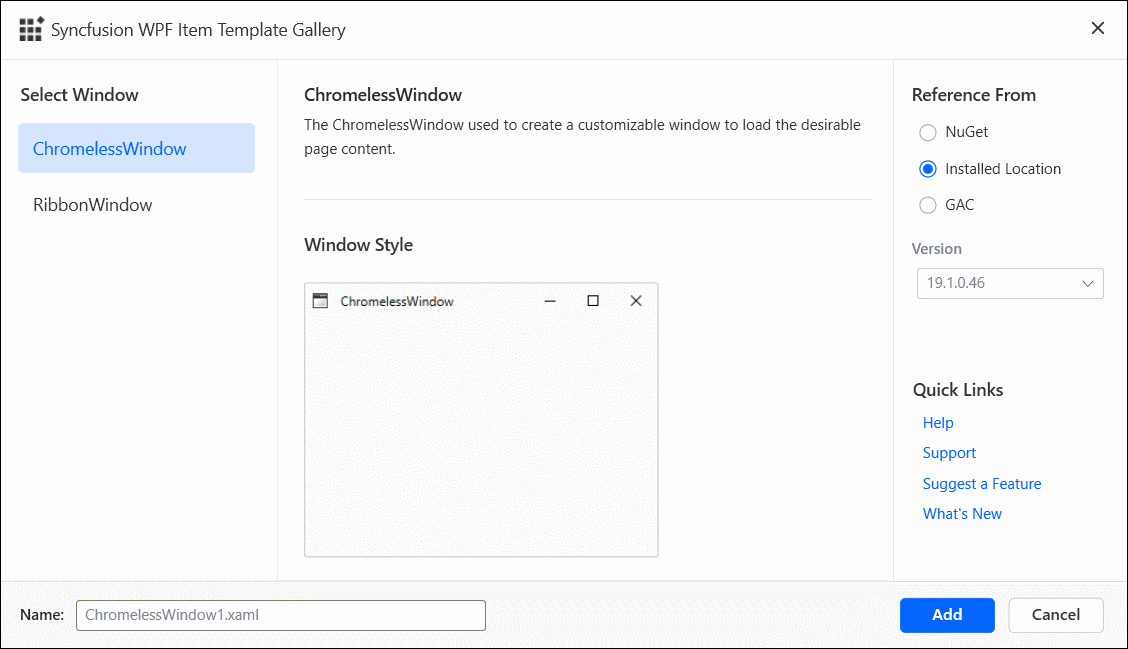
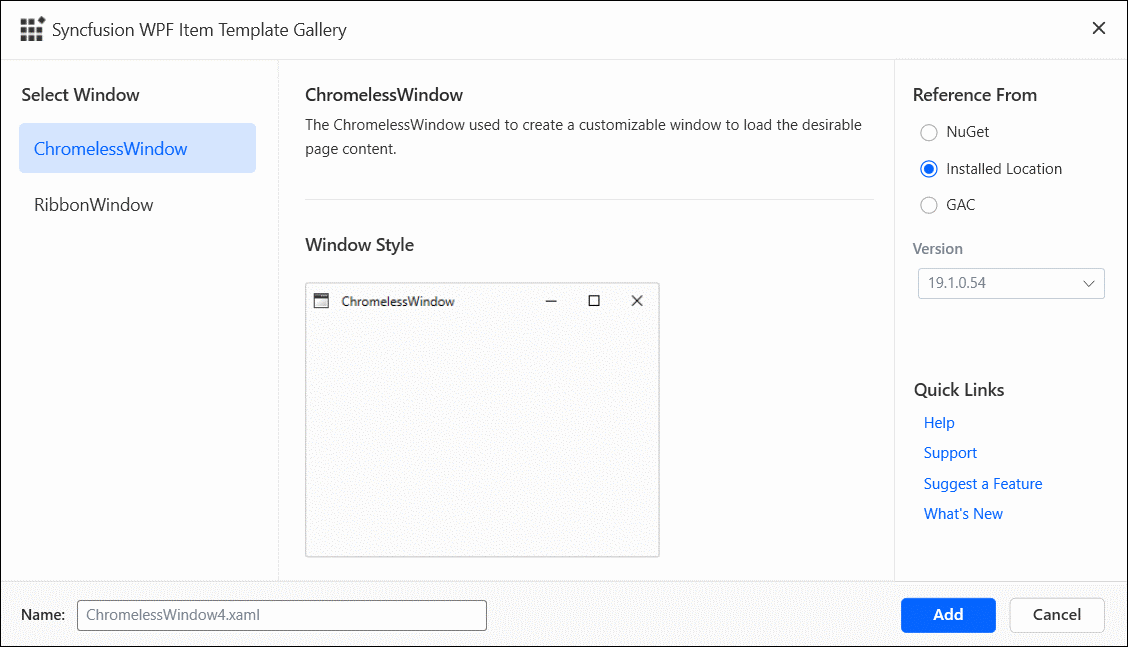
Changed Image with release version

diff --git a/Extension/WPF-Extension/Add-Item.md b/Extension/WPF-Extension/Add-Item.md
@@ -12,11 +12,11 @@ documentation: ug
 
 Syncfusion provides the Visual Studio Item Templates support to add Syncfusion WPF Window into the WPF application with Syncfusion WPF references. Syncfusion WPF window provides an option to customize the window title bar quickly and comes with various built-in themes to present an appealing User Interface.
 
-I> The Syncfusion WPF item templates are available from v19.1.0.xx. 
+I> The Syncfusion WPF item templates are available from v19.1.0.54. 
 
 The following steps help you to add the Syncfusion WPF window in the Visual Studio WPF application. 
 
-> Before using the Syncfusion WPF Item Template, check whether the WPF **Extensions - Syncfusion** installed or not in Visual Studio Extension Manager by clicking on the Tools -> Extensions and Updates -> Installed for Visual Studio 2017 or lower and for Visual Studio 2019 by clicking on the Extensions -> Manage Extensions -> Installed. If It is not installed, then install the [Syncfusion WPF Extensions](https://help.syncfusion.com/wpf/visual-studio-integration/visual-studio-extensions/download-and-installation).
+> Before using the Syncfusion WPF Item Template, check whether the **WPF Extensions - Syncfusion** installed or not in Visual Studio Extension Manager by clicking on the Tools -> Extensions and Updates -> Installed for Visual Studio 2017 or lower and for Visual Studio 2019 by clicking on the Extensions -> Manage Extensions -> Installed. If It is not installed, then install the [Syncfusion WPF Extensions](https://help.syncfusion.com/wpf/visual-studio-integration/visual-studio-extensions/download-and-installation).
 
 1. Open a new or existing WPF application.
 2. Right-click on the WPF application from the Solution Explorer. Select the Add Syncfusion Item… option.
